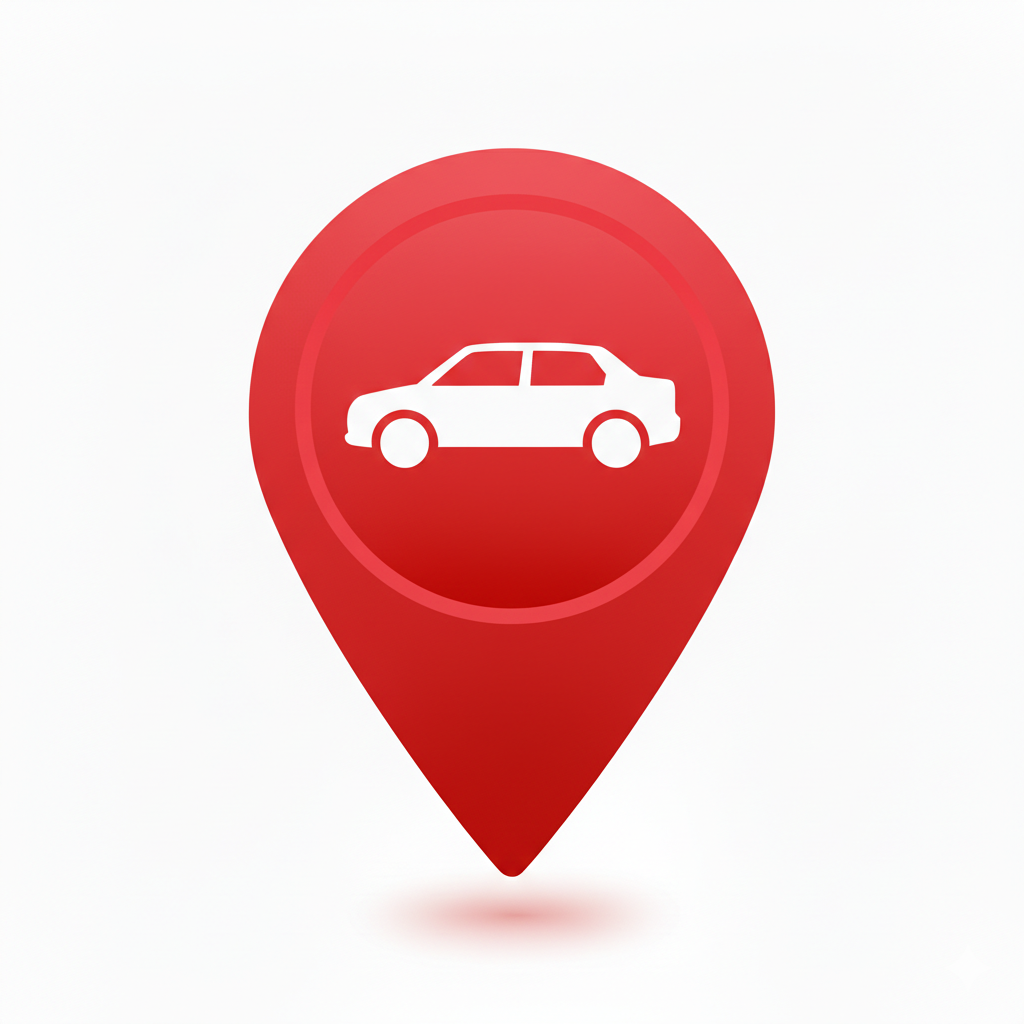
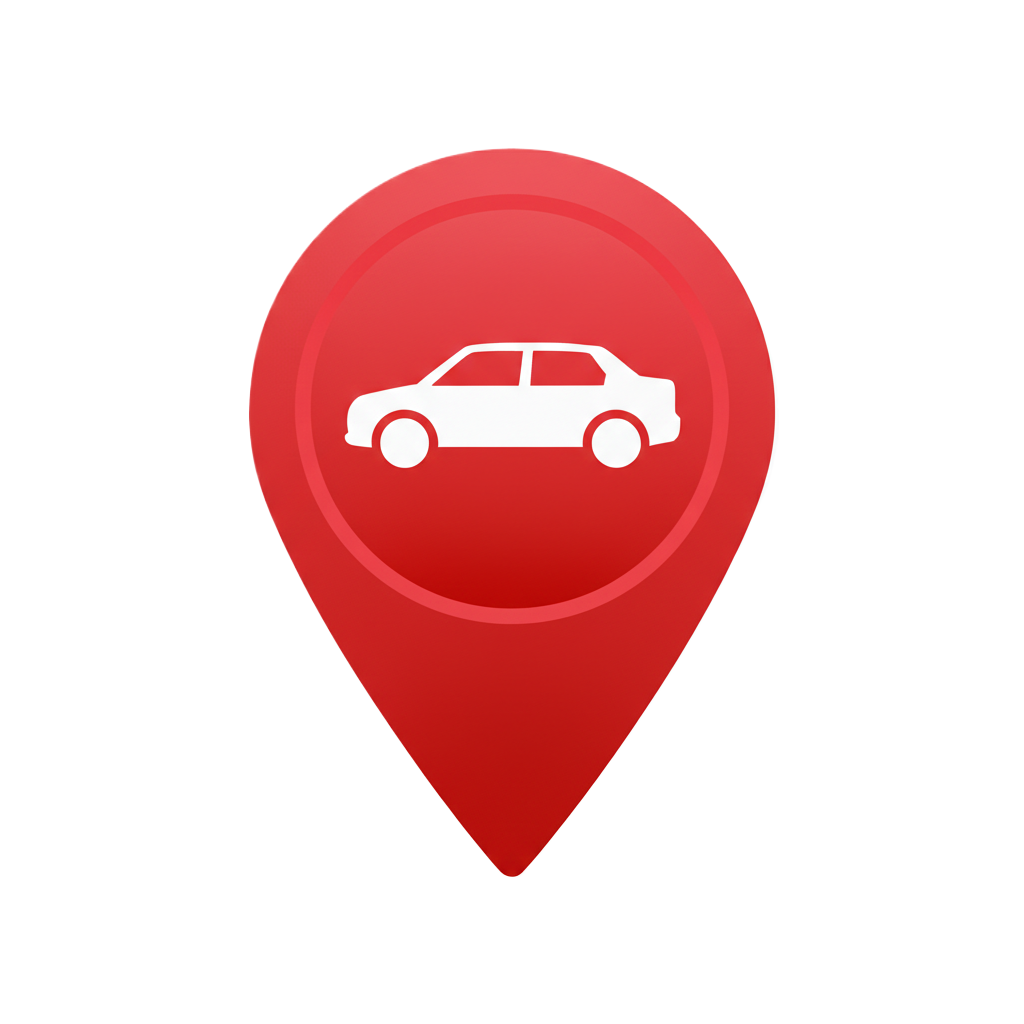
add nuevas imagenes en formato png y ajustar los iconos para que se vean bien en el mapa

Changed region(s): [[0.375, 0.8438, 0.625, 0.9375]]

diff --git a/src/components/subastas/subastaPopupCard.tsx b/src/components/subastas/subastaPopupCard.tsx
@@ -1,0 +1,73 @@
+import React from 'react';
+
+interface AuctionCardProps {
+  title: string;
+  currentPrice: number;
+  originalPrice: number;
+  image?: string;
+  badgeText?: string;
+  className?: string;
+  onViewClick: () => void;
+}
+
+export const AuctionCard: React.FC<AuctionCardProps> = ({
+  title,
+  currentPrice,
+  originalPrice,
+  image,
+  badgeText = 'Subasta Activa',
+  className = '',
+  onViewClick,
+}) => {
+  const fallbackImage =
+    'https://images.unsplash.com/photo-1560518883-ce09059eeffa?auto=format&fit=crop&q=80&w=300';
+
+  return (
+    <div
+      className={`bg-[#0b0f19] rounded-xl font-sans text-white flex flex-col m-0 p-0 ${className}`}
+      style={{ boxShadow: 'none', border: 'none' }}
+    >
+      <div className="h-32 w-full relative shrink-0">
+        <img src={image || fallbackImage} alt={title} className="w-full h-full object-cover" />
+        <div className="absolute top-2 left-2 bg-yellow-400 text-black text-[10px] uppercase tracking-wide font-extrabold px-2 py-1 rounded shadow">
+          {badgeText}
+        </div>
+      </div>
+
+      <div
+        className="p-4 flex flex-col gap-3 flex-grow justify-between"
+        style={{ background: 'transparent', boxShadow: 'none', border: 'none' }}
+      >
+        <h3 className="font-bold text-sm text-gray-100 truncate" title={title}>
+          {title}
+        </h3>
+
+        <div
+          className="flex items-end justify-between p-2 rounded-lg"
+          style={{ background: 'rgba(0,0,0,0.7)', border: 'none' }}
+        >
+          <div className="flex flex-col">
+            <span className="text-[10px] text-gray-400 uppercase tracking-wider">Puja actual</span>
+            <span className="text-yellow-400 font-bold text-base">
+              {currentPrice.toLocaleString('es-ES')} €
+            </span>
+          </div>
+
+          <div className="flex flex-col items-end">
+            <span className="text-[10px] text-gray-400 uppercase tracking-wider">Valor Real</span>
+            <span className="text-gray-500 text-xs font-medium line-through decoration-red-500/50">
+              {originalPrice.toLocaleString('es-ES')} €
+            </span>
+          </div>
+        </div>
+
+        <button
+          onClick={onViewClick}
+          className="w-full bg-yellow-400 text-black hover:bg-yellow-300 transition-colors py-2 rounded-lg text-xs font-bold mt-1"
+        >
+          VER DETALLES
+        </button>
+      </div>
+    </div>
+  );
+};

diff --git a/src/components/subastas/SubastasMarkers.tsx b/src/components/subastas/SubastasMarkers.tsx
@@ -1,0 +1,52 @@
+import { Marker, Popup } from 'react-leaflet';
+import { useEffect, useState } from 'react';
+import { fetchSubastas } from '../../services/subastasService';
+import { getSubastaIcon } from '../map/subasta/subastasIcons';
+import type { Subasta } from './subastasMocks';
+import MarkerClusterGroup from 'react-leaflet-cluster';
+import { createYellowClusterIcon } from '../map/mapConstants';
+import { AuctionCard } from './subastaPopupCard';
+import { useNavigate } from 'react-router-dom';
+
+export const SubastasMarkers = () => {
+  const [subastas, setSubastas] = useState<Subasta[]>([]);
+  const navigate = useNavigate();
+
+  useEffect(() => {
+    fetchSubastas().then((data) => {
+      console.log('Subastas mock cargadas:', data);
+      setSubastas(data);
+    });
+  }, []);
+
+  console.log('Renderizando SubastasMarkers, subastas:', subastas);
+
+  return (
+    <MarkerClusterGroup
+      chunkedLoading
+      showCoverageOnHover={false}
+      iconCreateFunction={createYellowClusterIcon}
+    >
+      {subastas.map((subasta: Subasta) => (
+        <Marker
+          key={subasta.id}
+          position={[subasta.lat, subasta.lng]}
+          icon={getSubastaIcon(subasta.type, subasta.viabilidad)}
+        >
+          <Popup className="leaflet-popup-transparent" closeButton={false}>
+            <div
+              style={{ background: 'transparent', boxShadow: 'none', padding: 0, border: 'none' }}
+            >
+              <AuctionCard
+                title={subasta.name}
+                currentPrice={subasta.precioActual || 0}
+                originalPrice={subasta.valorSubasta || 0}
+                onViewClick={() => navigate(`/auction/${subasta.id}`)}
+              />
+            </div>
+          </Popup>
+        </Marker>
+      ))}
+    </MarkerClusterGroup>
+  );
+};

diff --git a/src/features/subastas/components/subastasMocks.ts b/src/features/subastas/components/subastasMocks.ts
@@ -9,7 +9,6 @@ export interface Subasta {
   lng: number;
   viabilidad: Viabilidad;
 
-  // NUEVOS CAMPOS PARA EL POPUP
   precioActual: number;
   valorSubasta: number;
   imagen?: string;
@@ -84,6 +83,19 @@ export const SUBASTAS_MOCKS: Subasta[] = [
     lat: 41.6893,
     lng: -1.8867,
     viabilidad: 'green',
+    precioActual: 45000,
+    valorSubasta: 90000,
+    imagen:
+      'https://images.unsplash.com/photo-1497366216548-37526070297c?auto=format&fit=crop&q=80&w=300',
+  },
+
+  {
+    id: '7',
+    name: 'Bar Beraton Embrujado',
+    type: 'car',
+    lat: 41.9893,
+    lng: -1.8877,
+    viabilidad: 'red',
     precioActual: 45000,
     valorSubasta: 90000,
     imagen:

diff --git a/src/features/subastas/components/subastasIcons.ts b/src/features/subastas/components/subastasIcons.ts
@@ -8,9 +8,9 @@ import houseRed from '../../../assets/BFINDER_HOUSE_RED.png';
 import { SubastaType, Viabilidad } from './subastasMocks';
 
 export function getSubastaIcon(type: SubastaType, viabilidad: Viabilidad): L.Icon {
-  const size: [number, number] = [22, 22];
-  const anchor: [number, number] = [11, 22];
-  const popup: [number, number] = [0, -22];
+  const size: [number, number] = [52, 52];
+  const anchor: [number, number] = [16, 32];
+  const popup: [number, number] = [0, -32];
   if (type === 'car') {
     if (viabilidad === 'green')
       return L.icon({ iconUrl: carGreen, iconSize: size, iconAnchor: anchor, popupAnchor: popup });
